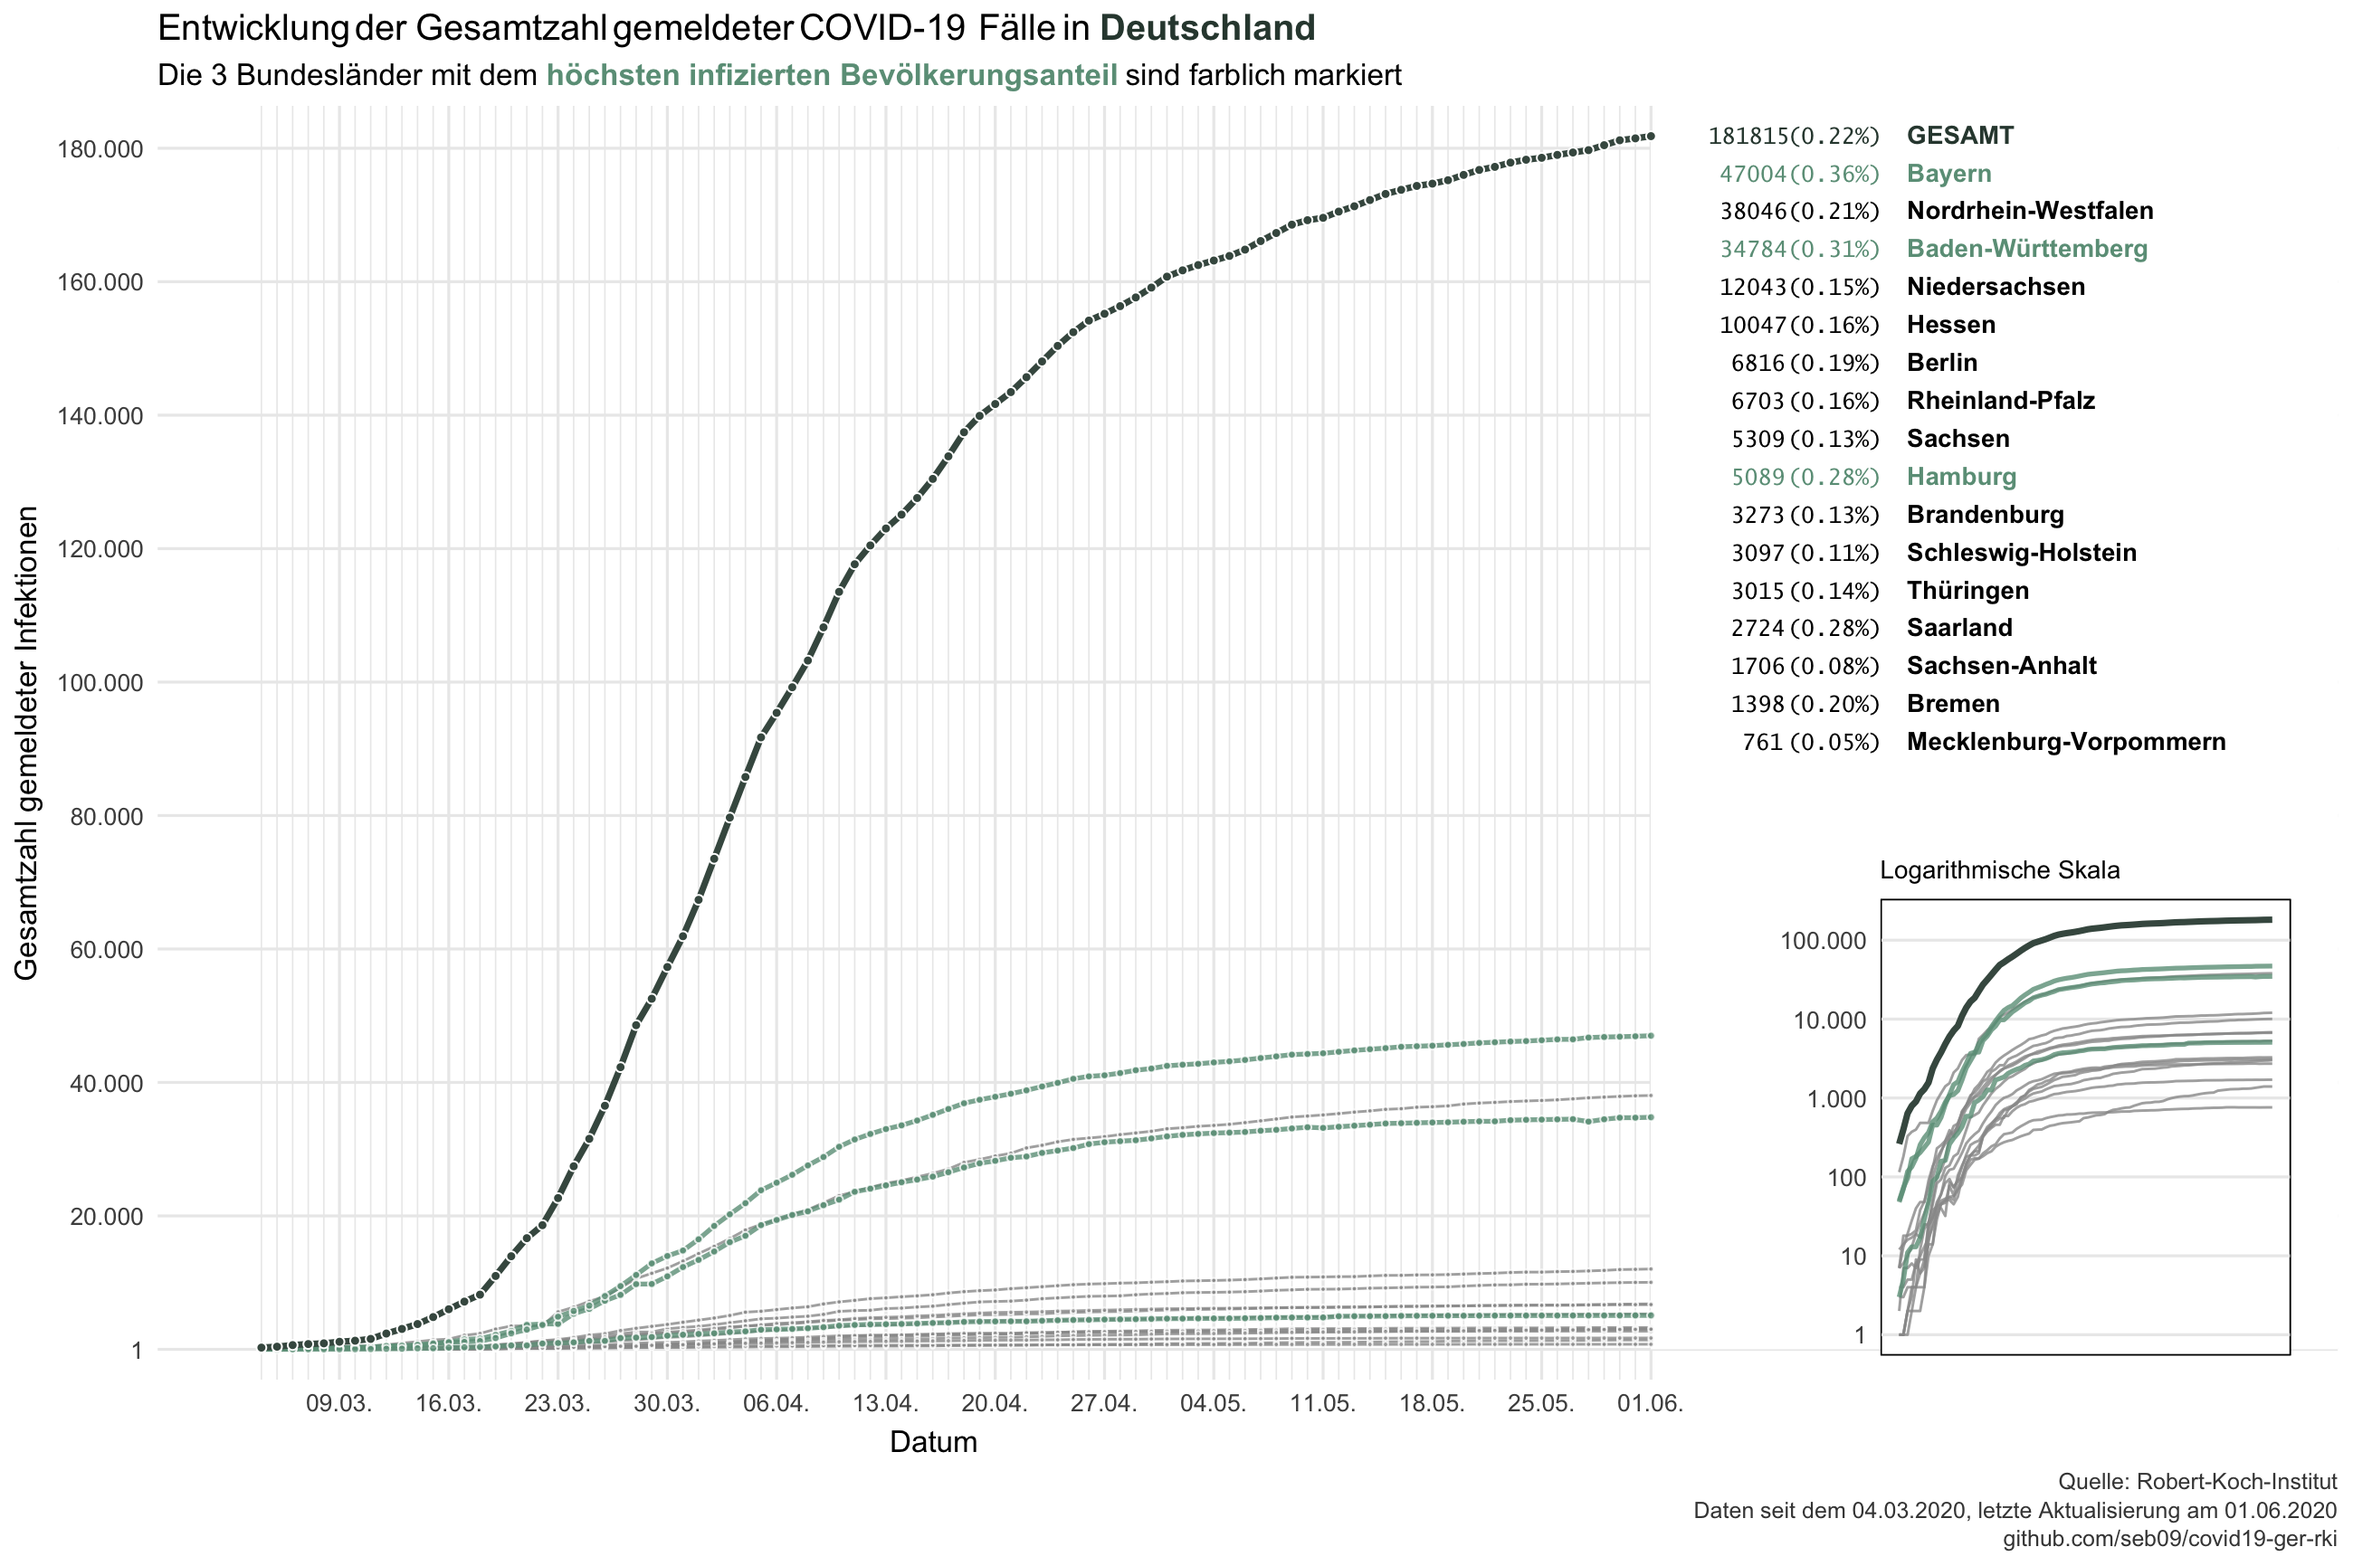
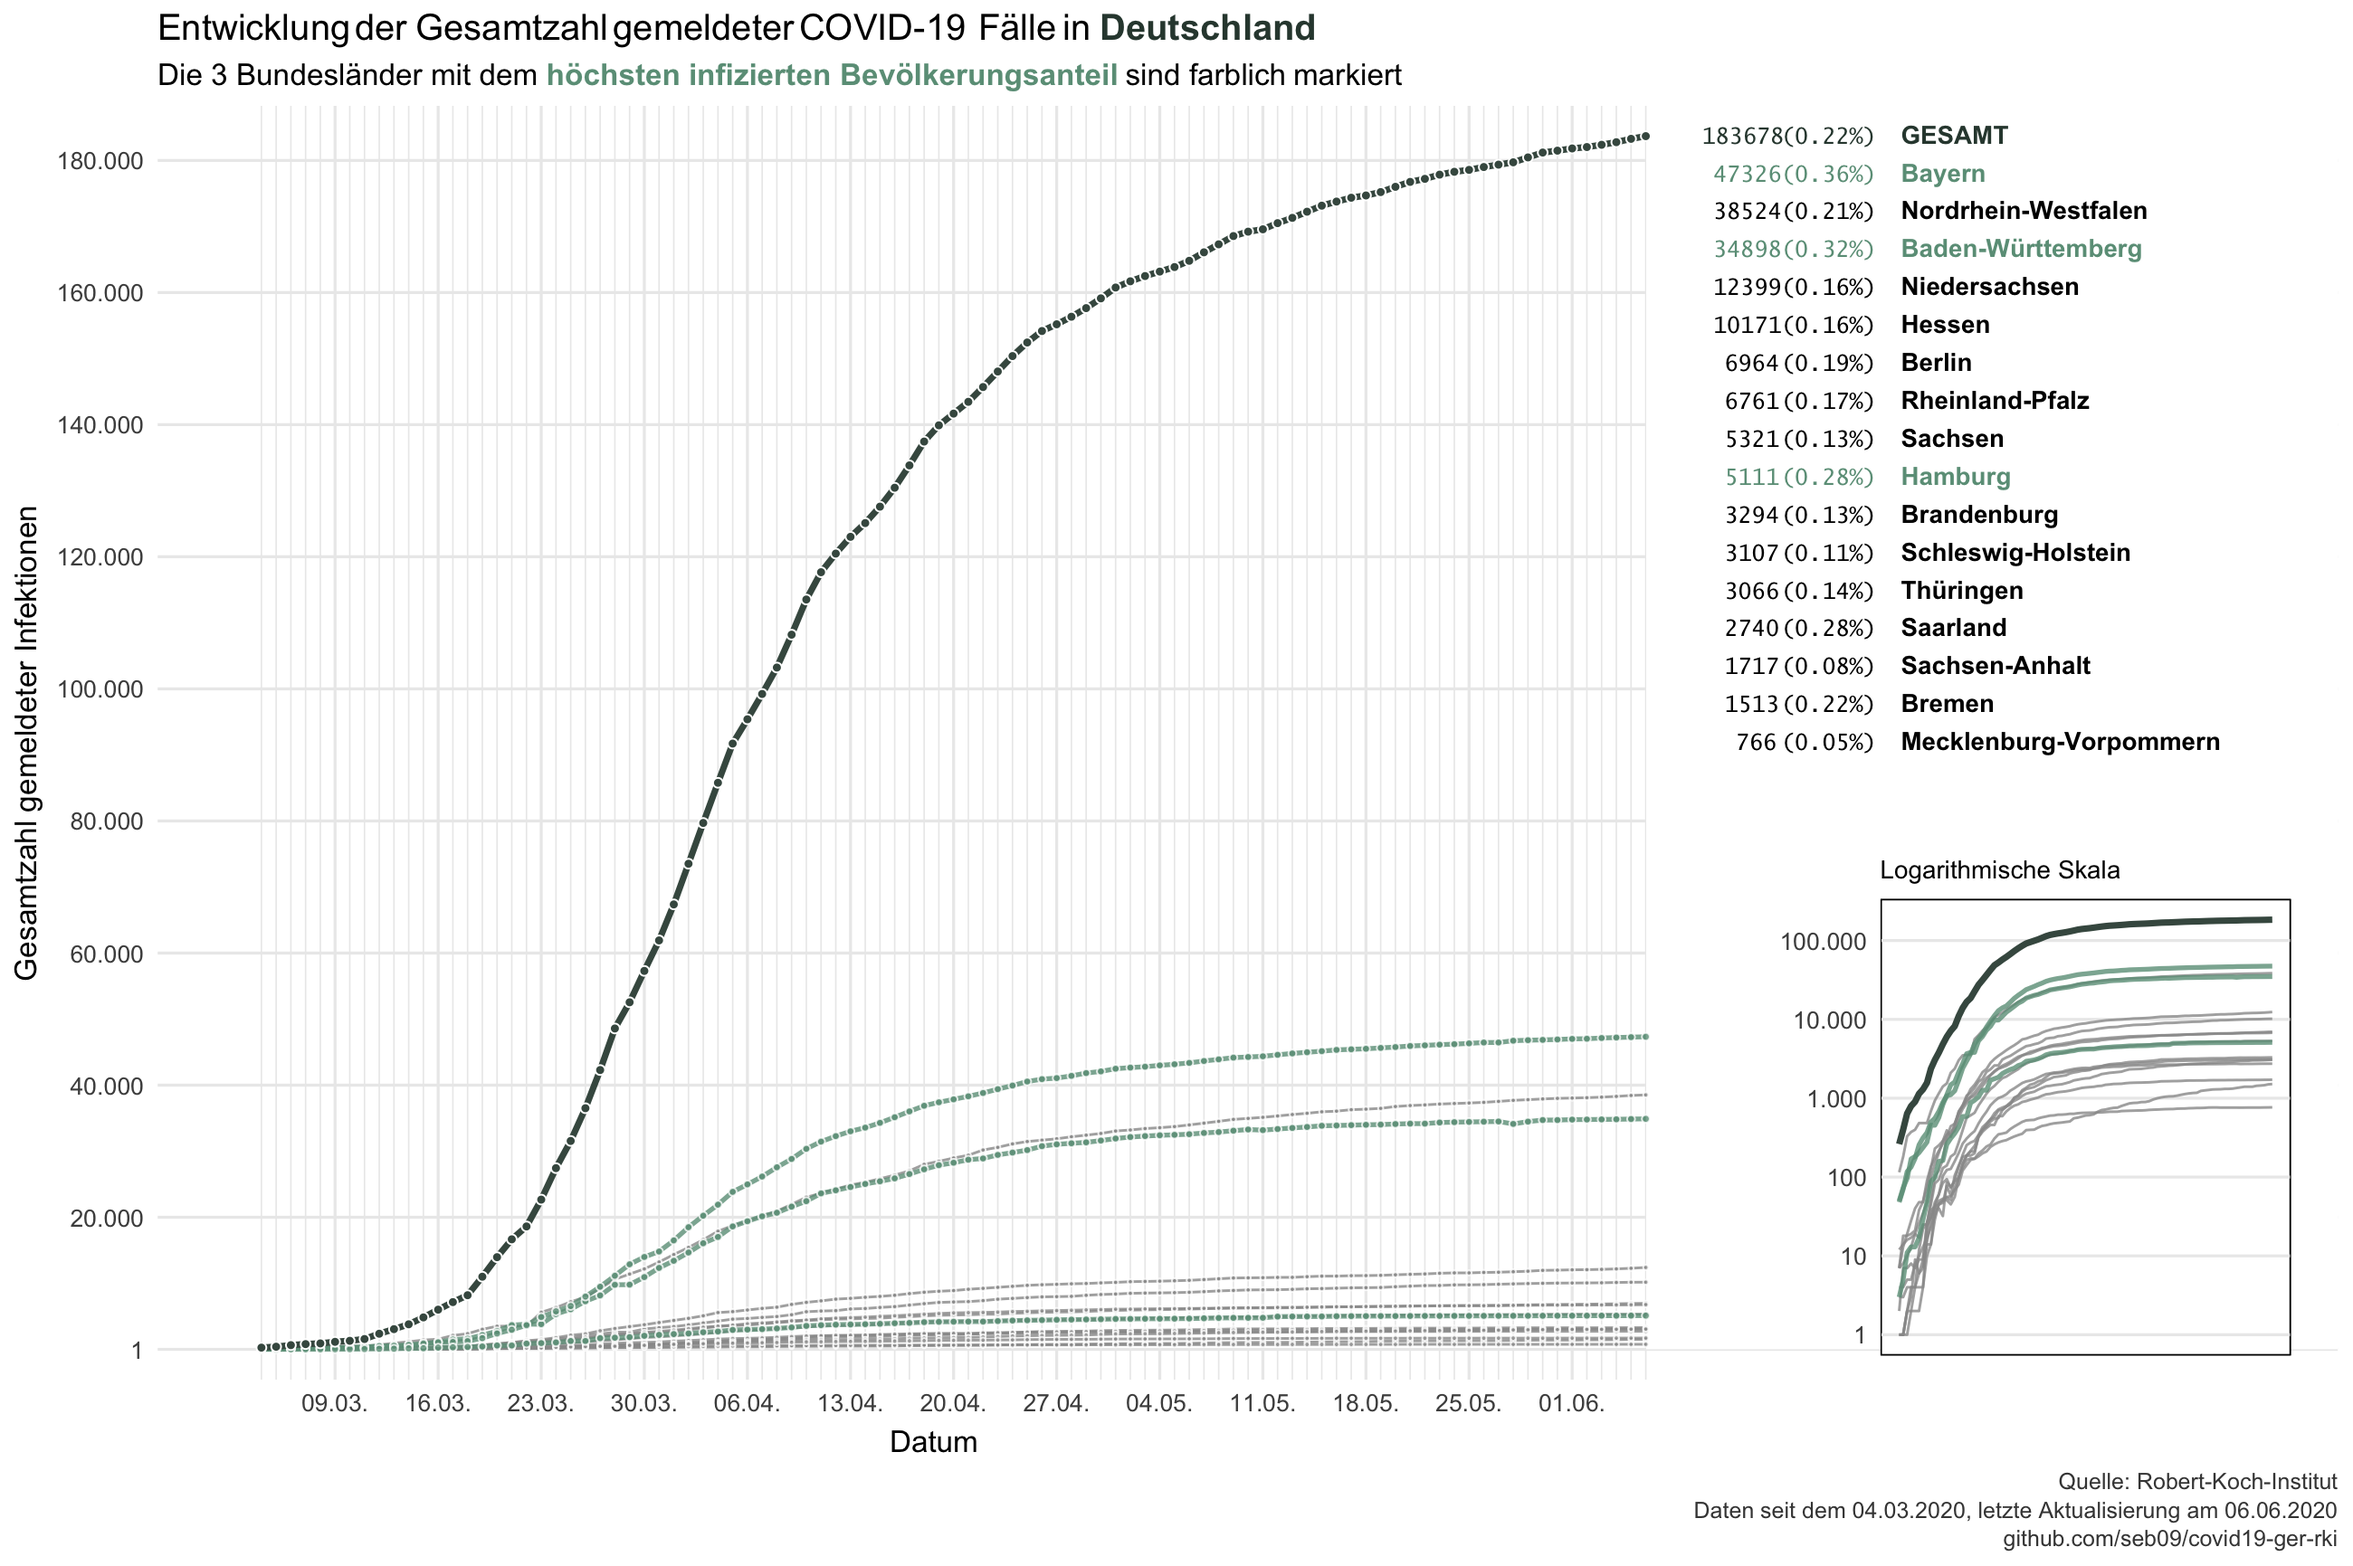
daily update 2020-06-06

diff --git a/README.md b/README.md
@@ -1,6 +1,6 @@
 Data from the Robert-Koch-Institut on COVID-19 in Germany
 ================
-Last update: 2020-06-01
+Last update: 2020-06-06
 
 This repository contains data on reported COVID-19 cases in Germany and
 its federal states that is published daily by the Robert-Koch-Institut
@@ -14,26 +14,26 @@ corona_rki %>%
   print(n = 16)
 ```
 
-    ## # A tibble: 1,434 x 6
+    ## # A tibble: 1,514 x 6
     ##    Datum      Bundesland      Fallzahl Todeszahl Fallzahl_neu Todeszahl_neu
     ##    <date>     <chr>              <dbl>     <dbl>        <dbl>         <dbl>
-    ##  1 2020-06-01 Baden-Württemb…    34784      1752           66          1752
-    ##  2 2020-06-01 Bayern             47004      2451           87          2451
-    ##  3 2020-06-01 Berlin              6816       198           16           198
-    ##  4 2020-06-01 Brandenburg         3273       155            2           155
-    ##  5 2020-06-01 Bremen              1398        42            0            42
-    ##  6 2020-06-01 Hamburg             5089       253            2           253
-    ##  7 2020-06-01 Hessen             10047       480           14           480
-    ##  8 2020-06-01 Mecklenburg-Vo…      761        20            0            20
-    ##  9 2020-06-01 Niedersachsen      12043       593           51           593
-    ## 10 2020-06-01 Nordrhein-West…    38046      1598           46          1598
-    ## 11 2020-06-01 Rheinland-Pfalz     6703       230            9           230
-    ## 12 2020-06-01 Saarland            2724       163            0           163
-    ## 13 2020-06-01 Sachsen             5309       214            5           214
-    ## 14 2020-06-01 Sachsen-Anhalt      1706        55            1            55
-    ## 15 2020-06-01 Schleswig-Hols…     3097       145            3           145
-    ## 16 2020-06-01 Thüringen           3015       162           31           162
-    ## # … with 1,418 more rows
+    ##  1 2020-06-06 Baden-Württemb…    34898      1790           28            12
+    ##  2 2020-06-06 Bayern             47326      2489           58             8
+    ##  3 2020-06-06 Berlin              6964       201           18             1
+    ##  4 2020-06-06 Brandenburg         3294       158            6             2
+    ##  5 2020-06-06 Bremen              1513        44           15             0
+    ##  6 2020-06-06 Hamburg             5111       254            4             1
+    ##  7 2020-06-06 Hessen             10171       483            8             1
+    ##  8 2020-06-06 Mecklenburg-Vo…      766        20            2             0
+    ##  9 2020-06-06 Niedersachsen      12399       605          122             1
+    ## 10 2020-06-06 Nordrhein-West…    38524      1622           85             5
+    ## 11 2020-06-06 Rheinland-Pfalz     6761       230           29             0
+    ## 12 2020-06-06 Saarland            2740       166            2             0
+    ## 13 2020-06-06 Sachsen             5321       212            6             0
+    ## 14 2020-06-06 Sachsen-Anhalt      1717        55            5             0
+    ## 15 2020-06-06 Schleswig-Hols…     3107       147            4             1
+    ## 16 2020-06-06 Thüringen           3066       170           15             1
+    ## # … with 1,498 more rows
 
 Data is downloaded each day at 11am from the [website of the
 RKI](https://www.rki.de/DE/Content/InfAZ/N/Neuartiges_Coronavirus/Fallzahlen.html)
